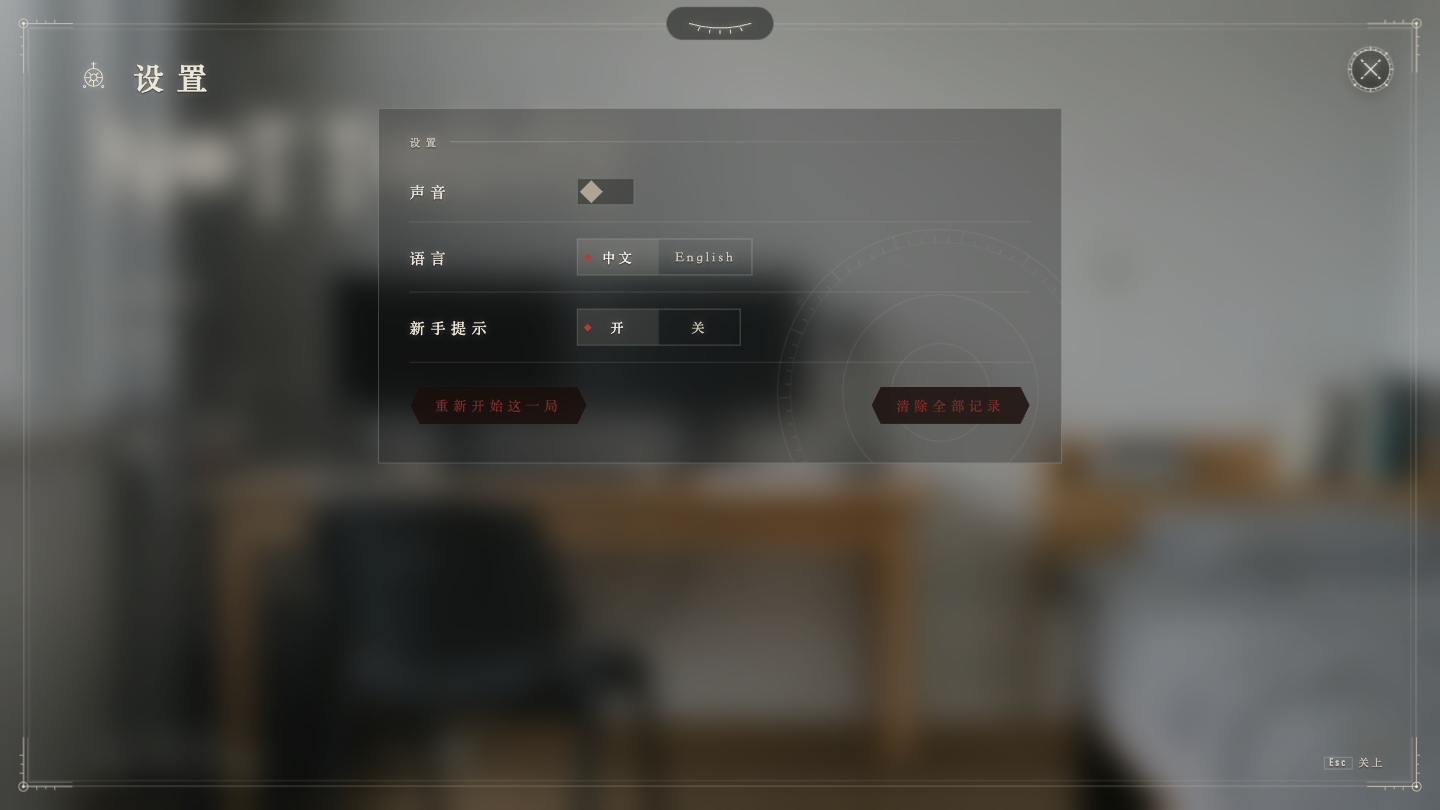
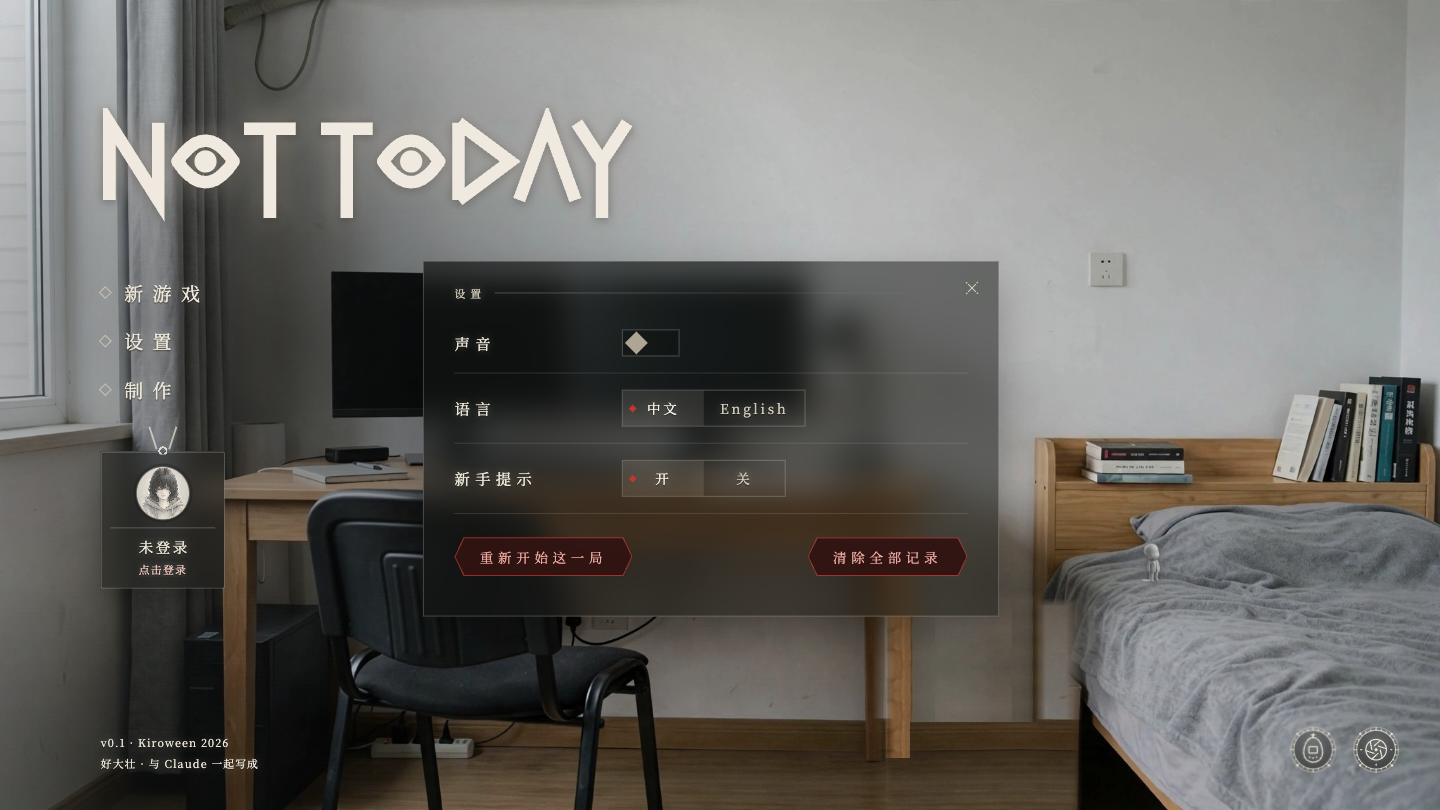
Title: 设置 back in the menu column, opening one glass card beside it; English spacing
Author 2026-11-26 (#93): the full-screen settings over the title looked like a new shell around
the old one, with the title's words showing through behind it. Now 设置 sits with 新游戏 and 制作
and opens one glass card to the right of the column (no frame, no eye, no heading, nothing
frosted; a small × closes). The full-screen 老物件 / 影集 pages hide the title's words and paint
the frosted room from the room picture (some browsers draw no backdrop blur in the scaled title
stage). English keeps ordinary letter spacing in the menus, the task card and the title.
Title snapshots refreshed: the only change is 设置 moving from the medallion row to the column.

diff --git a/src/ui/title/view.ts b/src/ui/title/view.ts
@@ -52,7 +52,8 @@ function menu(m: TitleModel): SafeHtml {
   // game-menu (author 2026-11-25, #84): 设置 / 老物件 / 影集 are the rune medallions at the bottom
   // right; the column keeps 继续 or 新游戏, 制作 and, last, who you are (the identity card).
   const inert = m.screen === "questions" || m.badgeOpen || !pastGate(m.account);
-  return html`<nav class="${cls("title-menu", fade)}" aria-label="${t("hud.menu")}"${inert ? html` inert` : null}>${first}<button type="button" data-action="title-credits">${tr("title.credits")}</button>${badge(m)}</nav>`;
+  // author 2026-11-26 (#93): 设置 sits with the other words again, not as a medallion
+  return html`<nav class="${cls("title-menu", fade)}" aria-label="${t("hud.menu")}"${inert ? html` inert` : null}>${first}<button type="button" data-action="title-settings" aria-haspopup="dialog">${tr("title.settings")}</button><button type="button" data-action="title-credits">${tr("title.credits")}</button>${badge(m)}</nav>`;
 }
 
 /**
@@ -64,8 +65,9 @@ function titleDock(m: TitleModel): SafeHtml | null {
   const med = (action: string, name: Rune, word: string, extra = "") => html`<button type="button" class="med" data-action="${action}" title="${word}" aria-label="${word}"${raw(extra)}>${medal(name)}</button>`;
   const drawer = hasDrawer(m.collection) ? med("title-drawer", "egg", t("title.drawer")) : null;
   const album = hasAlbum(m.collection) ? med("title-album", "album", t("title.album")) : null;
+  if (!drawer && !album) return null;
   const inert = m.badgeOpen || !pastGate(m.account);
-  return html`<nav class="title-dock hud-tiles" aria-label="${t("title.settings")}"${inert ? html` inert` : null}>${drawer}${album}${med("title-settings", "set", t("title.settings"), ' aria-haspopup="dialog"')}</nav>`;
+  return html`<nav class="title-dock hud-tiles" aria-label="${t("title.drawer")}"${inert ? html` inert` : null}>${drawer}${album}</nav>`;
 }
 
 /** title-badge: who wears the badge — a user or a guest; nobody else has one. */
@@ -184,5 +186,5 @@ export function renderTitle(m: TitleModel): SafeHtml {
   const gate = gated && m.account?.kind === "gate" ? html`<button type="button" class="title-badge-dim" data-action="auth-cancel" tabindex="-1" aria-label="${t("settings.cancel")}"></button>${gateCard(m.account)}` : null;
   const middle = m.screen === "credits" ? creditsPage() : m.screen === "drawer" ? drawerPage(m.collection, m.drawerOpen) : m.screen === "album" ? albumPage(m.collection, m.albumOpen) : m.screen === "questions" ? (m.starting ? null : cardOpen(m) ? questions(m) : menu(m)) : menu(m);
   const badgeOpen = gated ? null : badgeCard(m);
-  return html`<div class="${cls("stage", "title-page", `screen-${m.screen}`, cardOpen(m) && "card-open", gated && "gated", badgeOpen && "badge-open")}" data-screen="${m.screen}">${room(m)}<h1 class="title-name"><img class="title-logo" src="/logo.svg" alt="${GAME_TITLE}"></h1>${middle}${titleDock(m)}${gate}${badgeOpen}<div class="title-ver">${tr("title.version")}<br>${tr("title.byline")}</div>${m.screen === "menu" ? figureCard(m.collection, m.figureOpen) : null}${m.screen === "menu" && m.bookOpen ? bookReader(bookUrl(null, titleBookDays(m.collection))) : null}${settingsPanel({ settingsOpen: m.settingsOpen, muted: m.muted, settingsConfirm: m.settingsConfirm ?? null, ...(m.hintsOn !== undefined ? { hintsOn: m.hintsOn } : {}) }, { home: false, clearAll: true })}${m.opening ? openingLabel(m.opening) : null}</div>`;
+  return html`<div class="${cls("stage", "title-page", `screen-${m.screen}`, cardOpen(m) && "card-open", gated && "gated", badgeOpen && "badge-open")}" data-screen="${m.screen}">${room(m)}<h1 class="title-name"><img class="title-logo" src="/logo.svg" alt="${GAME_TITLE}"></h1>${middle}${titleDock(m)}${gate}${badgeOpen}<div class="title-ver">${tr("title.version")}<br>${tr("title.byline")}</div>${m.screen === "menu" ? figureCard(m.collection, m.figureOpen) : null}${m.screen === "menu" && m.bookOpen ? bookReader(bookUrl(null, titleBookDays(m.collection))) : null}${settingsPanel({ settingsOpen: m.settingsOpen, muted: m.muted, settingsConfirm: m.settingsConfirm ?? null, ...(m.hintsOn !== undefined ? { hintsOn: m.hintsOn } : {}) }, { home: false, clearAll: true, inline: true })}${m.opening ? openingLabel(m.opening) : null}</div>`;
 }

diff --git a/src/ui/title/title.css b/src/ui/title/title.css
@@ -323,3 +323,18 @@
 .title-drawer-page .drawer-card{position:relative;min-width:0}
 .title-drawer-page .drawer-card .drawer-play{position:absolute;right:8px;top:8px;z-index:1;padding:3px 10px;font-size:12px}
 .title-drawer-page .drawer-cell-name{max-width:100%;overflow:hidden;text-overflow:ellipsis;white-space:nowrap}
+/* author 2026-11-26 (#93): 设置 on the title is one glass card beside the menu column — no frame, no
+   eye, no heading, nothing frosted; the logo, the words and the badge stay as they are */
+.title-page .game-menu.inline .gm-veil{background:none;backdrop-filter:none;-webkit-backdrop-filter:none;animation:none}
+.title-page .game-menu.inline .gm-pane{left:470px;right:auto;top:290px;bottom:auto;width:640px;max-height:560px;transform:none;padding:26px 34px 30px;background:rgba(20,22,20,.5);backdrop-filter:blur(18px) saturate(1.2);-webkit-backdrop-filter:blur(18px) saturate(1.2);box-shadow:0 20px 50px rgba(0,0,0,.28)}
+.title-page .game-menu.inline .gm-dial{display:none}
+.game-menu .gm-x{position:absolute;right:12px;top:12px;width:34px;height:34px;padding:0;border:0;background:none;color:var(--gm-bone2);cursor:pointer;z-index:2}
+.game-menu .gm-x:hover,.game-menu .gm-x:focus-visible{color:#fff;outline:none}
+.game-menu .gm-x-rune{width:100%;height:100%;stroke:currentColor;fill:none;stroke-width:2;stroke-linecap:round}
+/* the full-screen pages (老物件, 影集): the title's words step aside, and the frosted room is the room
+   picture itself blurred (some browsers draw no backdrop blur inside the scaled title stage) */
+.title-page:has(.game-menu:not(.inline)) :is(.title-name,.title-menu,.title-dock,.title-ver){visibility:hidden}
+.title-page .game-menu:not(.inline) .gm-veil{overflow:hidden;isolation:isolate}
+.title-page .game-menu:not(.inline) .gm-veil::before{content:"";position:absolute;inset:-40px;z-index:-1;background:url(/room/shots/room_nobox.jpg) center/cover;filter:blur(18px) saturate(.9) brightness(.9)}
+/* author 2026-11-26: English keeps ordinary letter spacing (the wide spacing is for Chinese) */
+html[lang="en"] :is(.game-menu,.title-page,.room .hud-left) *{letter-spacing:.02em!important;text-indent:0!important}

diff --git a/tests/title.test.ts b/tests/title.test.ts
@@ -60,9 +60,9 @@ describe("the title page (FR1–FR3)", () => {
   it("snapshot: without a save — 新游戏 · 设置 · 制作", () => {
     const out = page(initialTitle(null, EMPTY_COLLECTION));
     const menu = [...out.matchAll(/<nav class="title-menu"[^>]*>(.*?)<\/nav>/g)][0]![1]!;
-    expect([...menu.matchAll(/data-action="(title-[a-z]+)"/g)].map((m) => m[1])).toEqual(["title-new", "title-credits"]);
-    // game-menu (author 2026-11-25, #84): 设置 is a rune medallion at the bottom right, not in the column
-    expect(out).toMatch(/<nav class="title-dock hud-tiles"[^>]*><button type="button" class="med" data-action="title-settings"/);
+    // author 2026-11-26 (#93): 设置 is with the other words again; with nothing collected there are no medallions
+    expect([...menu.matchAll(/data-action="(title-[a-z]+)"/g)].map((m) => m[1])).toEqual(["title-new", "title-settings", "title-credits"]);
+    expect(out).not.toContain("title-dock");
     expect(out).toContain("NOT TODAY");
     // The stage's screen class never borrows a child's rule (the nav is `.title-menu`).
     expect(out).toMatch(/^<div class="stage title-page screen-menu" data-screen="menu">/);
@@ -97,8 +97,10 @@ describe("the title page (FR1–FR3)", () => {
   it("settings opens the same panel as in game, without 返回首页; 制作 is a page with a back button", () => {
     const m = { ...initialTitle(null, EMPTY_COLLECTION), settingsOpen: true };
     const out = page(m);
-    // game-menu (2026-11-25): the one menu, alone (no tabs) on the title
-    expect(out).toContain('class="settings-layer game-menu solo"');
+    // author 2026-11-26 (#93): on the title, one glass card beside the menu (no frame, no tabs)
+    expect(out).toContain('class="settings-layer game-menu inline"');
+    expect(out).not.toContain("gm-frame");
+    expect(out).toContain('class="gm-x" data-action="settings-close"');
     expect(out).toContain('<div class="gm-pane pane-settings" role="dialog"');
     expect(out).not.toContain('data-action="settings-home"');
     const credits = page({ ...initialTitle(null, EMPTY_COLLECTION), screen: "credits" });

diff --git a/src/world/room/menu.ts b/src/world/room/menu.ts
@@ -38,11 +38,17 @@ export interface MenuShell {
   readonly pane: string;
   readonly id: string;
   readonly extra?: string;
+  /** author 2026-11-26 (#93): on the title, one glass card beside the menu — no frame, no eye, no
+   *  heading, no frosted screen; the title's words stay where they are. */
+  readonly inline?: boolean;
 }
 
 const CORNERS = (["tl", "tr", "bl", "br"] as const).map((k) => html`<svg class="gm-corner ${k}" viewBox="0 0 64 64" aria-hidden="true">${CORNER}</svg>`);
 
 export function menuShell(m: MenuShell): SafeHtml {
+  if (m.inline) {
+    return html`<div class="${cls("settings-layer", "game-menu", "inline", m.extra)}" data-band="tech"><button type="button" class="settings-dim gm-veil" data-action="${m.close}" aria-label="${t("status.close")}" tabindex="-1"></button><div class="gm-pane pane-${m.pane}" role="dialog" aria-modal="true" aria-labelledby="${m.id}"><h3 id="${m.id}" class="gm-sr">${m.title}</h3><button type="button" class="gm-x" data-action="${m.close}" aria-label="${t("status.close")}" title="${t("status.close")}">${rune("close", "gm-x-rune")}</button>${m.body}</div></div>`;
+  }
   const band = m.day === null ? "tech" : bandOf(m.day);
   const tabs = m.tabs.length
     ? html`<nav class="gm-tabs" aria-label="${t("hud.menu")}">${m.tabs.map((tb) => html`<button type="button" class="${cls("gm-tab", tb.id === m.active && "on")}" data-action="menu-tab" data-tab="${tb.id}" aria-pressed="${tb.id === m.active ? "true" : "false"}"><i aria-hidden="true"></i>${rune(tb.rune, "gm-tab-rune")}<span>${tb.label}</span></button>`)}<div class="gm-hint"><kbd>Tab</kbd>${tr("hud.menuTab")}</div></nav>`

diff --git a/src/world/room/hud.ts b/src/world/room/hud.ts
@@ -569,12 +569,12 @@ function hintsRow(on: boolean | undefined): SafeHtml | null {
 
 export function settingsPanel(
   session: Pick<Session, "settingsOpen" | "muted"> & { readonly settingsConfirm?: SettingsConfirm | null; readonly hintsOn?: boolean },
-  opts: { readonly home: boolean; readonly email?: EmailRow; readonly clearAll?: boolean; readonly room?: { readonly day: number; readonly found: number } } = { home: true },
+  opts: { readonly home: boolean; readonly email?: EmailRow; readonly clearAll?: boolean; readonly room?: { readonly day: number; readonly found: number }; readonly inline?: boolean } = { home: true },
 ): SafeHtml | null {
   if (!session.settingsOpen) return null;
   // game-menu (2026-11-25): a page of the one menu in the room (with its tabs); alone on the title
   const shell = (body: SafeHtml, close: string) =>
-    menuShell({ active: "settings", day: opts.room?.day ?? null, title: tr("settings.title"), rune: "set", tabs: opts.room ? roomTabs(opts.room.found) : [], close, body, pane: "settings", id: "settings-title" });
+    menuShell({ active: "settings", day: opts.room?.day ?? null, title: tr("settings.title"), rune: "set", tabs: opts.room ? roomTabs(opts.room.found) : [], close, body, pane: "settings", id: "settings-title", ...(opts.inline ? { inline: true } : {}) });
   // playtest-1105 R8: 重新开始这一局 / 清除全部 ask first, in the same panel: the question, 确定 · 取消.
   const asking = session.settingsConfirm ?? null;
   if (asking) {
